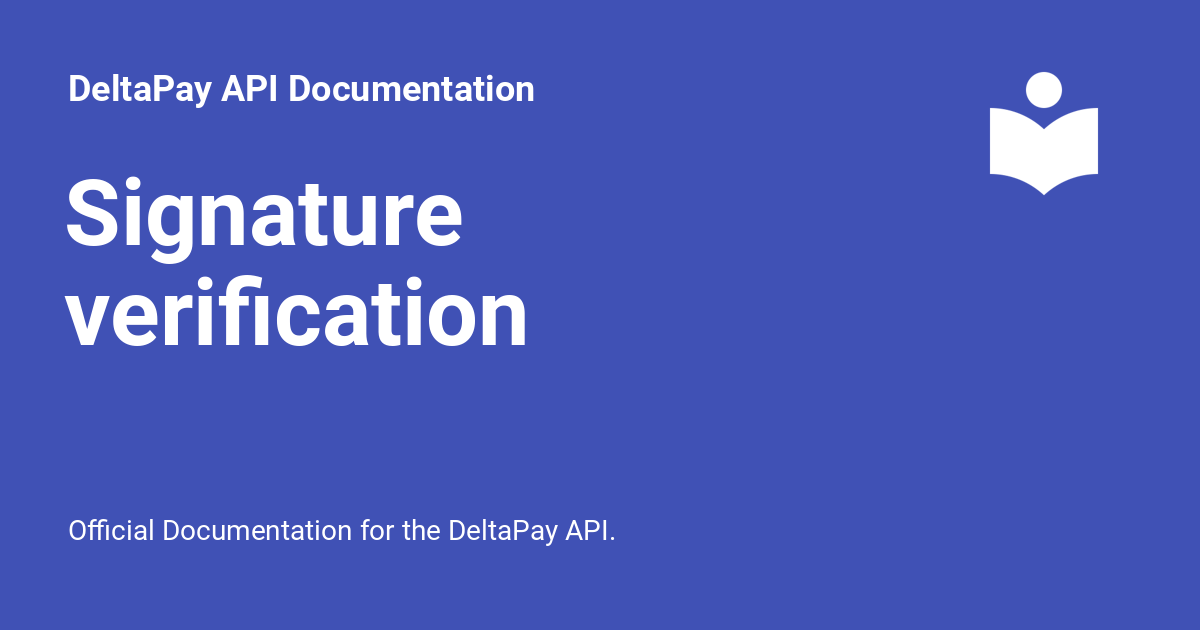
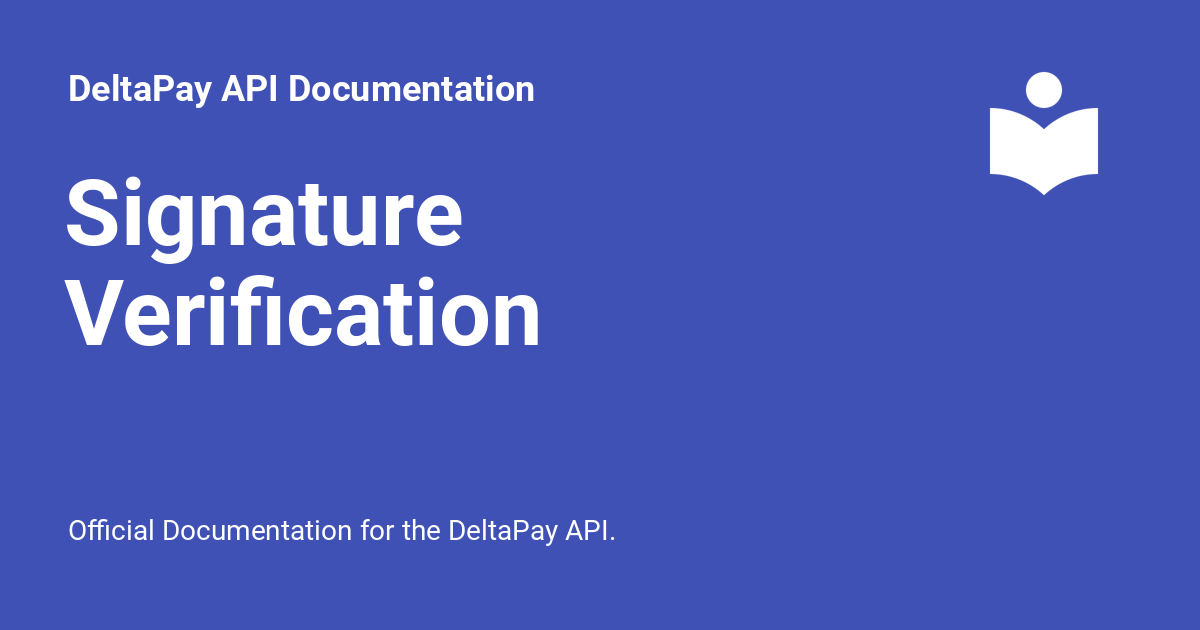
Deployed 6152b14 with MkDocs version: 1.6.1

Changed region(s): [[0.0308, 0.4222, 0.4625, 0.573]]

diff --git a/common_usecases/signature_verification/index.html b/common_usecases/signature_verification/index.html
@@ -15,6 +15,8 @@
         <link rel="canonical" href="https://deltapay.co.sz/common_usecases/signature_verification/">
       
       
+        <link rel="prev" href="../payment_requests/">
+      
       
       
       <link rel="icon" href="../../assets/images/favicon.png">
@@ -22,7 +24,7 @@
     
     
       
-        <title>Signature verification - DeltaPay API Documentation</title>
+        <title>Signature Verification - DeltaPay API Documentation</title>
       
     
     
@@ -57,7 +59,7 @@
       
         <meta  property="og:type"  content="website" >
       
-        <meta  property="og:title"  content="Signature verification - DeltaPay API Documentation" >
+        <meta  property="og:title"  content="Signature Verification - DeltaPay API Documentation" >
       
         <meta  property="og:description"  content="Official Documentation for the DeltaPay API." >
       
@@ -73,7 +75,7 @@
       
         <meta  name="twitter:card"  content="summary_large_image" >
       
-        <meta  name="twitter:title"  content="Signature verification - DeltaPay API Documentation" >
+        <meta  name="twitter:title"  content="Signature Verification - DeltaPay API Documentation" >
       
         <meta  name="twitter:description"  content="Official Documentation for the DeltaPay API." >
       
@@ -134,7 +136,7 @@
         <div class="md-header__topic" data-md-component="header-topic">
           <span class="md-ellipsis">
             
-              Signature verification
+              Signature Verification
             
           </span>
         </div>
@@ -279,10 +281,12 @@
   
   
   
+    
+  
   
     
     
-      <li class="md-tabs__item">
+      <li class="md-tabs__item md-tabs__item--active">
         <a href="../c2b/" class="md-tabs__link">
           
   
@@ -508,8 +512,10 @@
       
   
   
+    
   
   
+  
     
     
       
@@ -527,19 +533,22 @@
     
     
       
+        
+        
+      
       
         
       
     
     
-    <li class="md-nav__item md-nav__item--nested">
+    <li class="md-nav__item md-nav__item--active md-nav__item--section md-nav__item--nested">
       
         
         
-        <input class="md-nav__toggle md-toggle " type="checkbox" id="__nav_3" >
+        <input class="md-nav__toggle md-toggle " type="checkbox" id="__nav_3" checked>
         
           
-          <label class="md-nav__link" for="__nav_3" id="__nav_3_label" tabindex="0">
+          <label class="md-nav__link" for="__nav_3" id="__nav_3_label" tabindex="">
             
   
   
@@ -552,7 +561,7 @@
             <span class="md-nav__icon md-icon"></span>
           </label>
         
-        <nav class="md-nav" data-md-level="1" aria-labelledby="__nav_3_label" aria-expanded="false">
+        <nav class="md-nav" data-md-level="1" aria-labelledby="__nav_3_label" aria-expanded="true">
           <label class="md-nav__title" for="__nav_3">
             <span class="md-nav__icon md-icon"></span>
             Common Use Cases
@@ -655,10 +664,32 @@
                 
   
   
+    
   
   
-    <li class="md-nav__item">
-      <a href="../../signature_verification.md" class="md-nav__link">
+  
+    <li class="md-nav__item md-nav__item--active">
+      
+      <input class="md-nav__toggle md-toggle" type="checkbox" id="__toc">
+      
+      
+        
+      
+      
+        <label class="md-nav__link md-nav__link--active" for="__toc">
+          
+  
+  
+  <span class="md-ellipsis">
+    Signature Verification
+    
+  </span>
+  
+
+          <span class="md-nav__icon md-icon"></span>
+        </label>
+      
+      <a href="./" class="md-nav__link md-nav__link--active">
         
   
   
@@ -669,6 +700,92 @@
   
 
       </a>
+      
+        
+
+<nav class="md-nav md-nav--secondary" aria-label="Table of contents">
+  
+  
+  
+    
+  
+  
+    <label class="md-nav__title" for="__toc">
+      <span class="md-nav__icon md-icon"></span>
+      Table of contents
+    </label>
+    <ul class="md-nav__list" data-md-component="toc" data-md-scrollfix>
+      
+        <li class="md-nav__item">
+  <a href="#python" class="md-nav__link">
+    <span class="md-ellipsis">
+      Python
+    </span>
+  </a>
+  
+</li>
+      
+        <li class="md-nav__item">
+  <a href="#javascript" class="md-nav__link">
+    <span class="md-ellipsis">
+      JavaScript
+    </span>
+  </a>
+  
+</li>
+      
+        <li class="md-nav__item">
+  <a href="#php" class="md-nav__link">
+    <span class="md-ellipsis">
+      PHP
+    </span>
+  </a>
+  
+    <nav class="md-nav" aria-label="PHP">
+      <ul class="md-nav__list">
+        
+          <li class="md-nav__item">
+  <a href="#requirements" class="md-nav__link">
+    <span class="md-ellipsis">
+      Requirements:
+    </span>
+  </a>
+  
+</li>
+        
+      </ul>
+    </nav>
+  
+</li>
+      
+        <li class="md-nav__item">
+  <a href="#c" class="md-nav__link">
+    <span class="md-ellipsis">
+      C#
+    </span>
+  </a>
+  
+    <nav class="md-nav" aria-label="C#">
+      <ul class="md-nav__list">
+        
+          <li class="md-nav__item">
+  <a href="#requirements_1" class="md-nav__link">
+    <span class="md-ellipsis">
+      Requirements:
+    </span>
+  </a>
+  
+</li>
+        
+      </ul>
+    </nav>
+  
+</li>
+      
+    </ul>
+  
+</nav>
+      
     </li>
   
 
@@ -1320,6 +1437,28 @@
       
         <footer class="md-footer">
   
+    
+      
+      <nav class="md-footer__inner md-grid" aria-label="Footer" >
+        
+          
+          <a href="../payment_requests/" class="md-footer__link md-footer__link--prev" aria-label="Previous: Payment Requests">
+            <div class="md-footer__button md-icon">
+              
+              <svg xmlns="http://www.w3.org/2000/svg" viewBox="0 0 24 24"><path d="M20 11v2H8l5.5 5.5-1.42 1.42L4.16 12l7.92-7.92L13.5 5.5 8 11z"/></svg>
+            </div>
+            <div class="md-footer__title">
+              <span class="md-footer__direction">
+                Previous
+              </span>
+              <div class="md-ellipsis">
+                Payment Requests
+              </div>
+            </div>
+          </a>
+        
+        
+      </nav>
     
   
   <div class="md-footer-meta md-typeset">

diff --git a/common_usecases/payment_requests/index.html b/common_usecases/payment_requests/index.html
@@ -18,6 +18,8 @@
         <link rel="prev" href="../qr_code/">
       
       
+        <link rel="next" href="../signature_verification/">
+      
       
       <link rel="icon" href="../../assets/images/favicon.png">
       <meta name="generator" content="mkdocs-1.6.1, mkdocs-material-9.6.14">
@@ -754,7 +756,7 @@
   
   
     <li class="md-nav__item">
-      <a href="../../signature_verification.md" class="md-nav__link">
+      <a href="../signature_verification/" class="md-nav__link">
         
   
   
@@ -1061,6 +1063,22 @@ The sender of the PR is returned as a</p>
             </div>
           </a>
         
+        
+          
+          <a href="../signature_verification/" class="md-footer__link md-footer__link--next" aria-label="Next: Signature Verification">
+            <div class="md-footer__title">
+              <span class="md-footer__direction">
+                Next
+              </span>
+              <div class="md-ellipsis">
+                Signature Verification
+              </div>
+            </div>
+            <div class="md-footer__button md-icon">
+              
+              <svg xmlns="http://www.w3.org/2000/svg" viewBox="0 0 24 24"><path d="M4 11v2h12l-5.5 5.5 1.42 1.42L19.84 12l-7.92-7.92L10.5 5.5 16 11z"/></svg>
+            </div>
+          </a>
         
       </nav>
     

diff --git a/getting_started/authentication/index.html b/getting_started/authentication/index.html
@@ -771,7 +771,7 @@
   
   
     <li class="md-nav__item">
-      <a href="../../signature_verification.md" class="md-nav__link">
+      <a href="../../common_usecases/signature_verification/" class="md-nav__link">
         
   
   

diff --git a/getting_started/callbacks/index.html b/getting_started/callbacks/index.html
@@ -780,7 +780,7 @@
   
   
     <li class="md-nav__item">
-      <a href="../../signature_verification.md" class="md-nav__link">
+      <a href="../../common_usecases/signature_verification/" class="md-nav__link">
         
   
   

diff --git a/getting_started/permissions/index.html b/getting_started/permissions/index.html
@@ -679,7 +679,7 @@
   
   
     <li class="md-nav__item">
-      <a href="../../signature_verification.md" class="md-nav__link">
+      <a href="../../common_usecases/signature_verification/" class="md-nav__link">
         
   
   

diff --git a/getting_started/setup/index.html b/getting_started/setup/index.html
@@ -679,7 +679,7 @@
   
   
     <li class="md-nav__item">
-      <a href="../../signature_verification.md" class="md-nav__link">
+      <a href="../../common_usecases/signature_verification/" class="md-nav__link">
         
   
   

diff --git a/404.html b/404.html
@@ -625,7 +625,7 @@
   
   
     <li class="md-nav__item">
-      <a href="/signature_verification.md" class="md-nav__link">
+      <a href="/common_usecases/signature_verification/" class="md-nav__link">
         
   
   

diff --git a/index.html b/index.html
@@ -740,7 +740,7 @@
   
   
     <li class="md-nav__item">
-      <a href="signature_verification.md" class="md-nav__link">
+      <a href="common_usecases/signature_verification/" class="md-nav__link">
         
   
   

diff --git a/common_usecases/b2c/index.html b/common_usecases/b2c/index.html
@@ -679,7 +679,7 @@
   
   
     <li class="md-nav__item">
-      <a href="../../signature_verification.md" class="md-nav__link">
+      <a href="../signature_verification/" class="md-nav__link">
         
   
   

diff --git a/common_usecases/c2b/index.html b/common_usecases/c2b/index.html
@@ -738,7 +738,7 @@
   
   
     <li class="md-nav__item">
-      <a href="../../signature_verification.md" class="md-nav__link">
+      <a href="../signature_verification/" class="md-nav__link">
         
   
   

diff --git a/common_usecases/qr_code/index.html b/common_usecases/qr_code/index.html
@@ -747,7 +747,7 @@
   
   
     <li class="md-nav__item">
-      <a href="../../signature_verification.md" class="md-nav__link">
+      <a href="../signature_verification/" class="md-nav__link">
         
   
   
